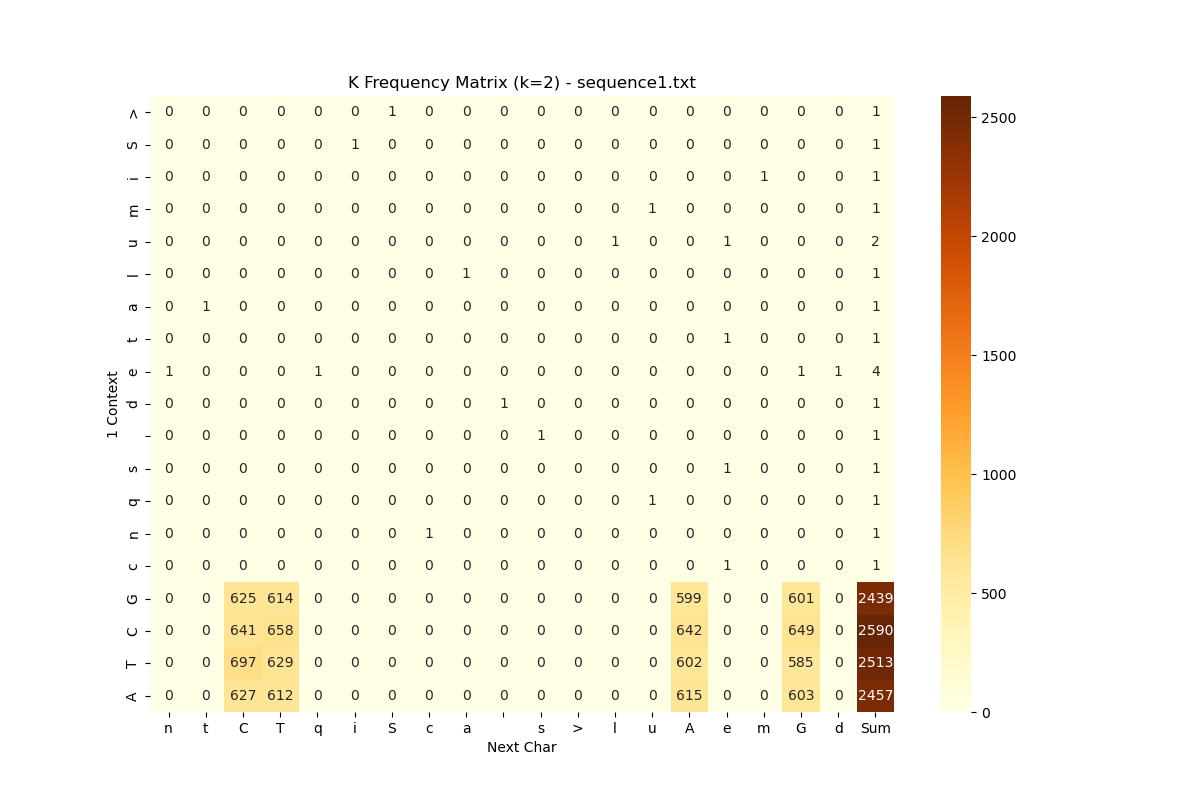
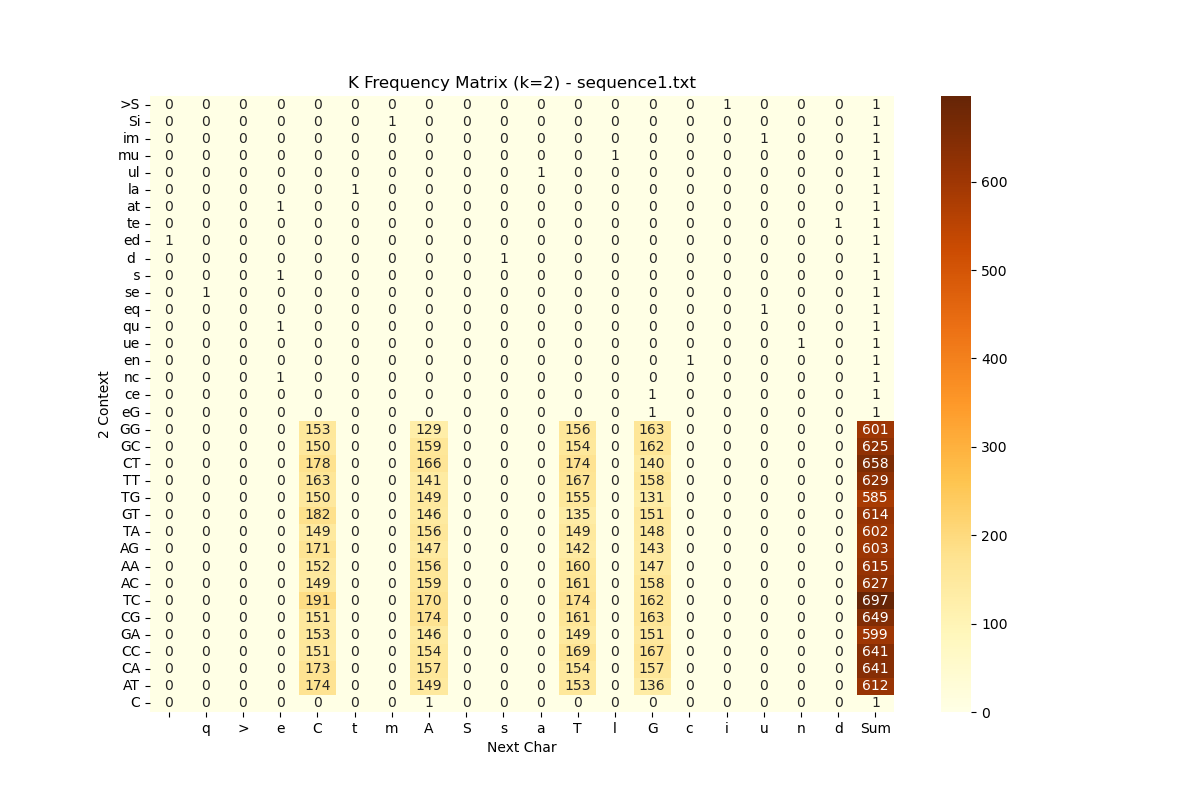
fix: k in plot complexity profile

diff --git a/generate_plots/plot_complextity_profile.py b/generate_plots/plot_complextity_profile.py
@@ -12,11 +12,14 @@ def read_sequence(file_path):
         return f.read().replace("\n", "")
 
 def compute_complexity_profile_matrix(sequence, k):
+    if k == 0:
+        print("k cannot be 0. Please provide a positive integer value for k.")
+        return None
     if k > len(sequence):
         print(f"Skipping k={k} as it is larger than the sequence length.")
         return None
 
-    counter = Counter(sequence[i:i+k] for i in range(len(sequence) - k + 1))
+    counter = Counter(sequence[i:i+k+1] for i in range(len(sequence) - k + 1))
     unique_chars = set("".join(counter.keys()))
     matrix = {sub[:-1]: {c: 0 for c in unique_chars} for sub in counter.keys()}
 
@@ -37,7 +40,7 @@ def plot_complexity_profile_matrix(cp_matrix, sequence_name, k, output_folder):
     sns.heatmap(cp_matrix, annot=True, fmt="d", cmap="YlOrBr")
     plt.title(f"K Frequency Matrix (k={k}) - {sequence_name}")
     plt.xlabel("Next Char")
-    plt.ylabel(f"{k-1} Context")
+    plt.ylabel(f"{k} Context")
     plt.savefig(f"{output_folder}/complexity_profile_matrix_k{k}.png")
     plt.close()
 
